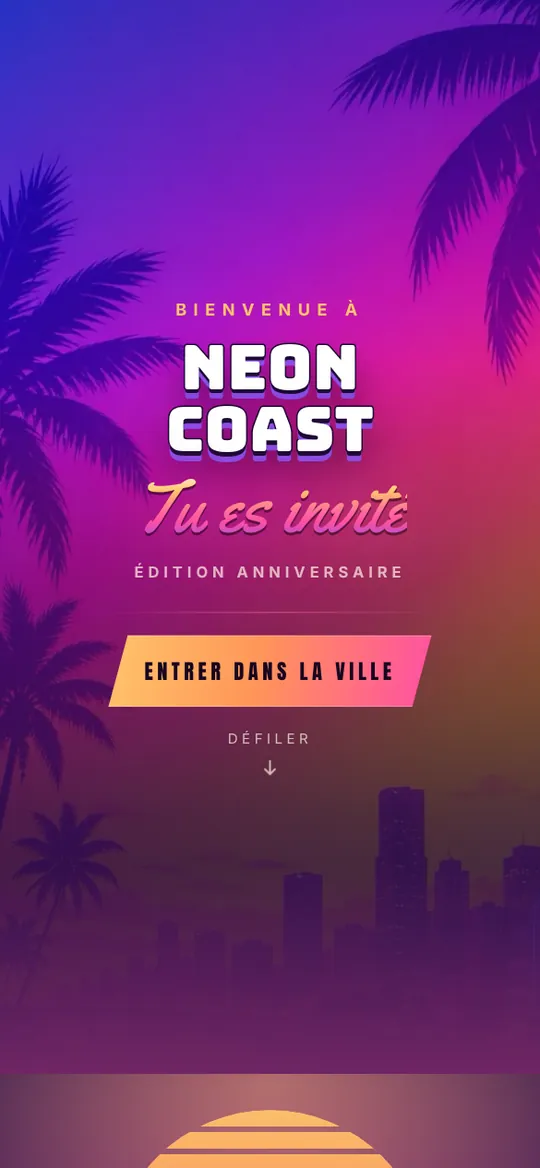
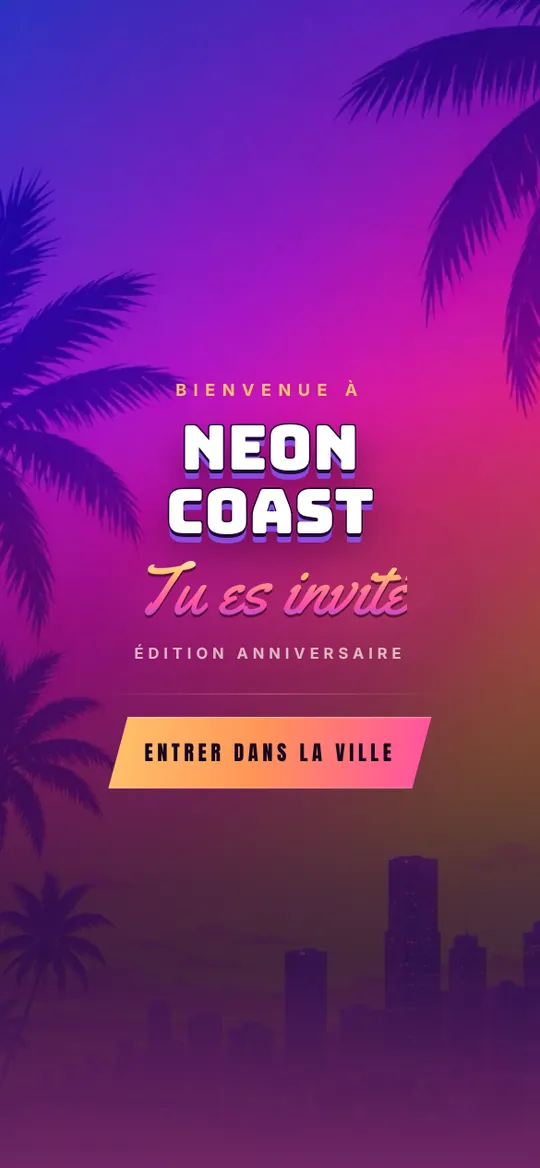
Neon Coast : une seule page au départ, « Entrer dans la ville » ouvre la suite sans revenir à l'accueil du site
Claude-Session: https://claude.ai/code/session_01JHbHXdBUaR2CiA6VEWaRD1

diff --git a/templates/neon-coast.html b/templates/neon-coast.html
@@ -81,6 +81,10 @@ p{margin:0}
 
 /* ---------- scene 1 : opening ---------- */
 #open{min-height:92svh;display:flex;align-items:center;justify-content:center;padding-block:56px}
+/* une seule page au départ : le reste de l’invitation s’ouvre avec « Entrer dans la ville » */
+.gate .wrap>section:not(#open),.gate .foot,.gate .scrollcue{display:none}
+.gate #open{min-height:100svh}
+.gate,.gate body{overflow:hidden}
 .sky{position:absolute;inset:0;z-index:0}
 .sky img{width:100%;height:100%;object-fit:cover;object-position:50% 38%;display:block}
 .sky::after{content:"";position:absolute;inset:0;
@@ -262,7 +266,7 @@ textarea.fld{min-height:84px;resize:vertical}
     <p class="script sig chrome">Tu es invité</p>
     <p class="kicker" style="color:var(--haze);letter-spacing:.3em">Édition anniversaire</p>
     <div class="rule" style="width:70%;margin:10px 0 4px"></div>
-    <a class="btn" href="#hero">Entrer dans la ville</a>
+    <a class="btn" href="#hero" id="enterCity">Entrer dans la ville</a>
     <div class="scrollcue"><span>DÉFILER</span>
       <svg viewBox="0 0 24 24" fill="none" stroke="currentColor" stroke-width="2" aria-hidden="true"><path d="M12 4v15M6 13l6 6 6-6"/></svg>
     </div>
@@ -526,7 +530,14 @@ const CONFIG = {
   mapQuery: "",
   mapLink: ""
 };
-document.documentElement.classList.add('js');
+document.documentElement.classList.add('js', 'gate');
+// « Entrer dans la ville » : ouvre le reste de l’invitation et descend à la 2e page (sans changer d’adresse)
+document.getElementById('enterCity').addEventListener('click', (e) => {
+  e.preventDefault();
+  document.documentElement.classList.remove('gate');
+  const hero = document.getElementById('hero');
+  requestAnimationFrame(() => hero.scrollIntoView({ behavior: matchMedia('(prefers-reduced-motion: reduce)').matches ? 'auto' : 'smooth', block: 'start' }));
+});
 
 const DAYS = ['Dimanche', 'Lundi', 'Mardi', 'Mercredi', 'Jeudi', 'Vendredi', 'Samedi'];
 const MONTHS = ['janvier', 'février', 'mars', 'avril', 'mai', 'juin', 'juillet', 'août', 'septembre', 'octobre', 'novembre', 'décembre'];
